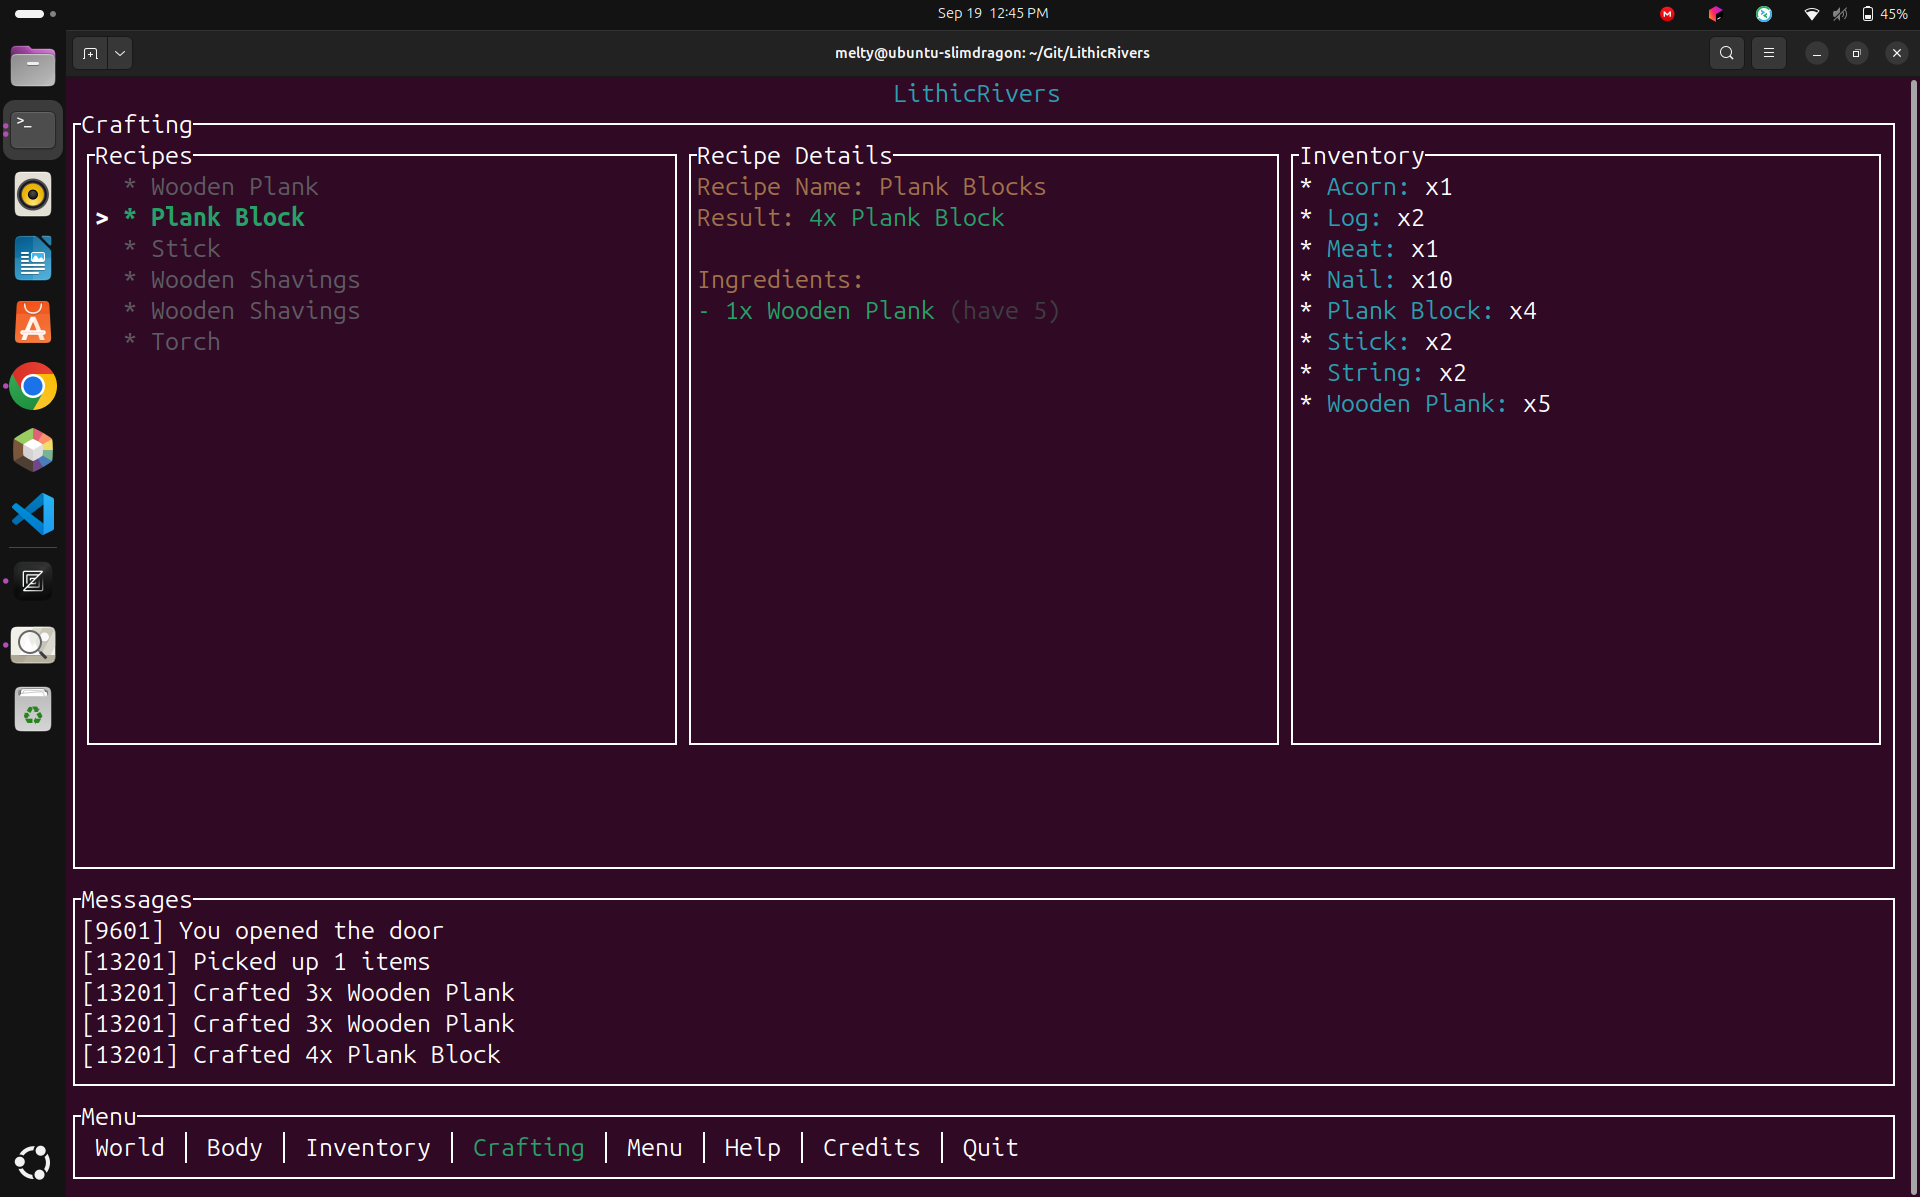
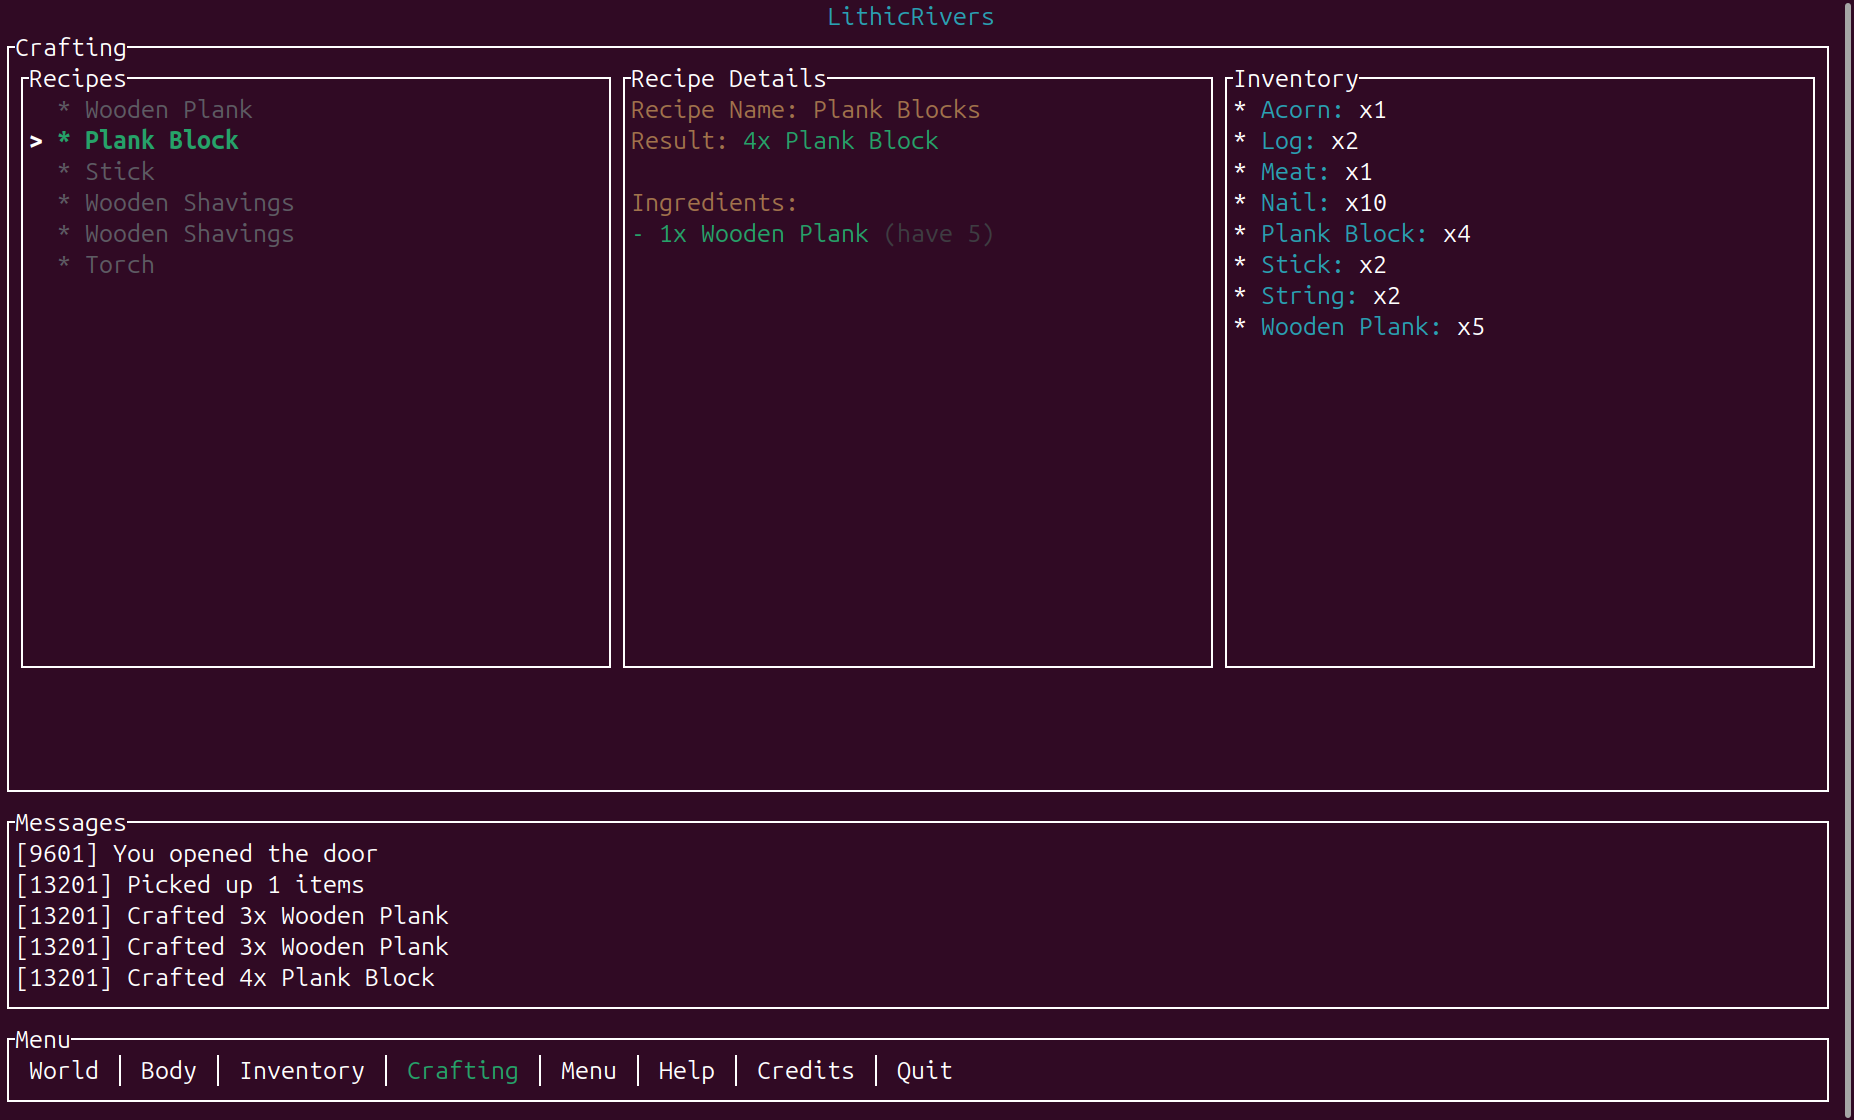
add screenshots for steam store

Changed region(s): [[0.0, 0.0, 1.0, 1.0], [0.9838, 0.875, 1.0, 0.9062], [0.9531, 0.125, 0.9838, 0.1562]]

diff --git a/crates/client/src/main.rs b/crates/client/src/main.rs
@@ -135,13 +135,13 @@ impl App {
         if let Some(start_time) = self.splash.start_time {
             match self.splash.state {
                 SplashState::Logo => {
-                    if start_time.elapsed() >= Duration::from_secs(1) {
+                    if start_time.elapsed() >= Duration::from_secs(3) {
                         self.splash.state = SplashState::GameTitle;
                         self.splash.start_time = Some(Instant::now());
                     }
                 }
                 SplashState::GameTitle => {
-                    if start_time.elapsed() >= Duration::from_secs(1) {
+                    if start_time.elapsed() >= Duration::from_secs(3) {
                         self.splash.state = SplashState::BootMessage;
                         self.splash.start_time = Some(Instant::now());
                         self.splash.boot_display_text.clear();

diff --git a/docs/steam_store/STEAM-STORE.md b/docs/steam_store/STEAM-STORE.md
@@ -1,56 +1,21 @@
 # Steam Store page content
 
-## Tagline
-
-An android wakes up in a world past its time. An ASCII sandbox where your body is the core crafting system, and every seed is reproducible down to the tick.
-
 ## Short Description
 
-LithicRivers is a deterministic roguelike sandbox that blends Minecraft’s blocks, Factorio’s automation, and Qud’s body mutations — in pure ASCII. 
-Mine, build, upgrade your broken android body, and explore infinite vertical worlds of stone, lava, and ruins.
-
-## Feature bullets
-
-- Deterministic Sandbox – Every action, drop, and dungeon is seeded and reproducible. Share a world and replay it exactly, tick by tick.
-
-- Body as Progression – Start as a damaged android. Repair, replace, and augment limbs to survive and thrive.
-
-- ASCII Worldbuilding – A fully-fleshed survival sandbox in retro ASCII, with sprites from 1×1 blocks to 12×8 detailed art.
-
-- Vertical Exploration – Carve through biomes above and below: wastelands, frozen springs, molten Lithic Rivers, and abandoned factories.
-
-- Automation & Emergence – Harness fluids, conveyors, and machines; discover how systems interact in unexpected, deterministic ways.
+An android wakes up in a world past its time. An ASCII sandbox where your physical body is the core crafting system, and every seed is reproducible down to the tick.
 
 ## Long Description
 
+LithicRivers is a deterministic roguelike sandbox that blends Minecraft’s blocks, Factorio’s automation, and Qud’s body mutations, in pure ASCII. 
 
-### About This Game
+Mine, build, upgrade your broken android body, and explore infinite worlds of stone, factories, lava, and ruins.
 
-You awaken in ruins, a broken android with one working arm, a fractured leg, and the faint glow of a fusion core running low. Around you, the world stretches infinitely in all directions — carved from noise, stone, and molten rivers. Nothing here is random. Every ore, every drop of water, every crumbling factory is reproducible down to the tick.
+- Deterministic Sandbox: Every action, drop, and dungeon is seeded and reproducible. Share a world and replay it exactly, tick by tick.
 
-LithicRivers is an ASCII sandbox roguelike where your body is the crafting system, your limbs are your inventory, and survival means rebuilding yourself piece by piece.
+- Your body is your progression: Start as a damaged android. Repair, replace, and augment limbs to survive and become more capable.
 
-### Features
+- ASCII Worldbuilding: A survival sandbox in retro ASCII, with sprites from 1×1 blocks to 12×8 detailed art.
 
-Deterministic Sandbox
-Every “random” element — from mining results to dungeon layouts — is seeded and fully reproducible. Share a world seed and get the exact same experience, tick by tick. Perfect for speedrunners, challenge seeds, and theorycrafters.
+- Exploration: Carve through biomes above and below: wastelands, frozen springs, molten Lithic Rivers, and abandoned factories.
 
-Body as Progression
-Start damaged. Find parts. Repair your limbs, graft augments, and rebuild your android body into something powerful, strange, or barely held together. Your body is your inventory and your main crafting system.
-
-Vertical Exploration
-The world is infinite and three-dimensional. Carve up through forests and ruins, down into frozen wastelands, abandoned mines, and the molten “Lithic Rivers” biome — underground caverns of lava, rare ore, and hostile machines.
-
-Automation & Emergence
-Conveyors, fluids, and procedural systems interact in unexpected ways. Build, automate, or exploit the physics of ASCII itself.
-
-ASCII Worldbuilding
-From tiny 1x1 blocks to detailed 12x8 sprites, the entire game is rendered in expressive ASCII art. Retro roguelike feel, modern depth.
-
-Why LithicRivers?
-
-If Minecraft is about freedom, Factorio about optimization, Caves of Qud about narrative strangeness, and Dwarf Fortress about simulation, then LithicRivers is about determinism and embodiment. It’s a survival sandbox where nothing is left to chance — and where rebuilding your body is as important as rebuilding the world.
-
-Target price: accessible indie ($3). Optimized to run in your terminal or on a potato laptop, but deep enough to live alongside the great roguelikes.
-
-Platforms: Built natively in Rust for Windows, Debian Linux, and MacOS.
+- Harness crafting, environmental effects, conveyor belts, and machines; discover how systems interact in unexpected, deterministic ways.
